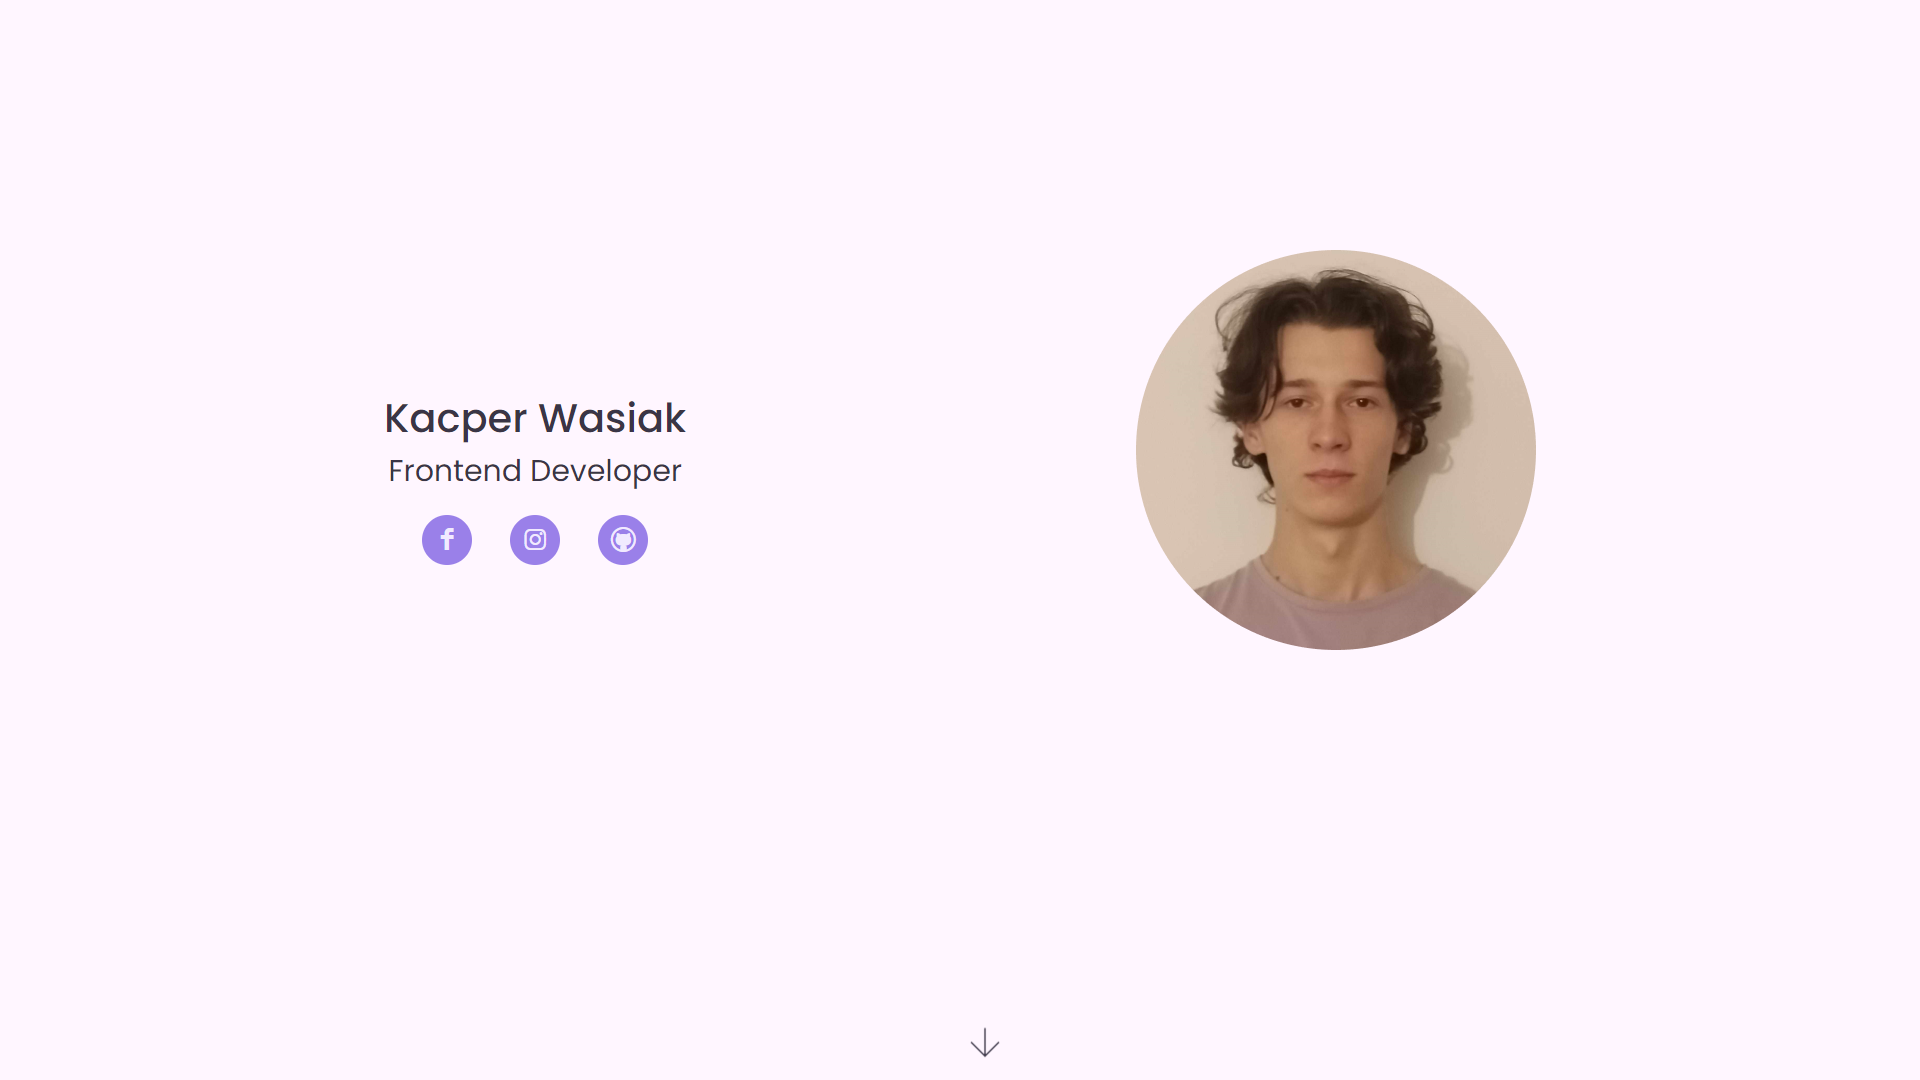
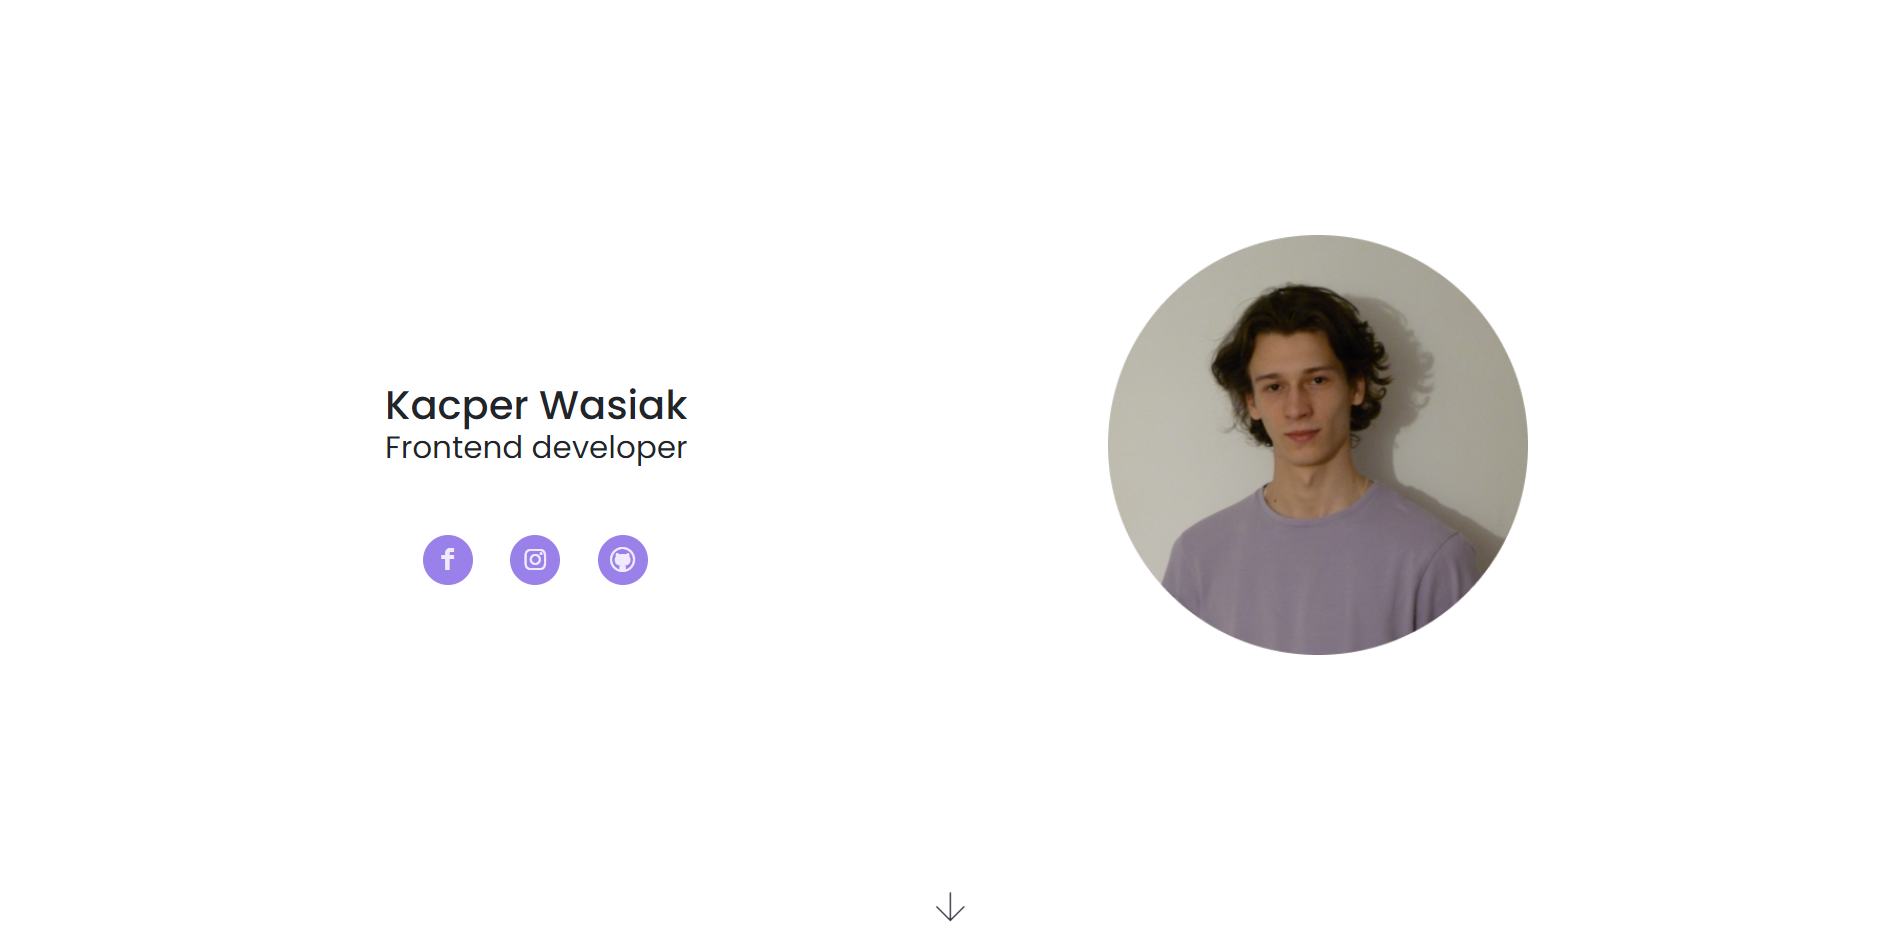
Most of JS was removed, contact section added

diff --git a/style.css b/style.css
@@ -17,9 +17,9 @@
 }
 
 body{
-    background-color: var(--light);
+    background-color: var(--purple);
     color: var(--darkFont);
-    scroll-behavior: smooth;
+    transition: 500ms ease;
 }
 
 /* MAIN WEBSITE CONTENT */
@@ -105,7 +105,7 @@ body{
 /* porojects */
 #projects{
     margin: 5%;
-    padding-bottom: 10%;
+    padding: 5% 0% 10% 0%;
 }
 
 #projects h2{
@@ -178,41 +178,68 @@ body{
 }
 
 /* about me */
+#about{
+    color: var(--darkFont);
+}
+
 #about h2{
     text-align: center;
     font-weight: 400;
     margin-bottom: 5%;
     font-size: 3em; 
+    color: var(--lightFont);
 }
 
 #about #wrapper{
-    background-color: var(--lightFont);
-    color: var(--darkFont);
     display: flex;
     flex-direction: row;
-    margin: 0 20% 7% 20%;
-    border-radius: 2em;
+    justify-content: space-between;
+    padding-bottom: 10%;
+    overflow-x: hidden;
+}
+
+#about #wrapper img#image{
+    scale: 1;
+    margin-right: 15%;
 
     transition: 500ms ease;
     opacity: 0;
-    transform: translateY(150px);
+    transform: translateX(150px);
 }
 
-#about #wrapper.active{
+#about #wrapper img#image.active{
+    transform: translateX(0px);
     opacity: 1;
-    transform: translateY(0px);
 }
 
-#about #wrapper img{
-    border-radius: 2em 0 0 2em;
-    margin-right: 10%;
-}
-
-#about #wrapper p{
-    width: 40%;
-    font-size: 2em;
+#about #wrapper p#paragraf{
+    width: 30%;
+    font-size: 2.5em;
     text-align: left;
-    margin-top: 10%;
+    margin: 10% 0% 0% 20%;
+    color: var(--lightFont);
+
+    transition: 500ms ease;
+    opacity: 0;
+    transform: translateX(-150px);
+}
+
+#about #wrapper p#paragraf.active{
+    transform: translateX(0px);
+    opacity: 1;
+}
+
+/* contact */
+#contact{
+    text-align: center;
+}
+
+#contact h2{
+    text-align: center;
+    font-weight: 400;
+    margin-bottom: 5%;
+    font-size: 3em; 
+    color: var(--lightFont);
 }
 
 /* ANIMATION */
@@ -233,6 +260,10 @@ body{
 
 #arrow-down.active{
     display: inline;
+}
+
+#arrow-down.active.light{
+    color: var(--lightFont);
 }
 
 #arrow-down span{
@@ -258,6 +289,10 @@ body{
 
 #arrow-up.active{
     display: inline;
+}
+
+#arrow-up.active.light{
+    color: var(--lightFont);
 }
 
 #arrow-up span{
@@ -296,6 +331,10 @@ body{
         transform: scale(1.05);
     }
 
+    #homePage #right img#avatar.active:hover{
+        transform: scale(1.05);
+    }
+
     .buttons a:hover{
         transform: translateY(-7%);
     }
@@ -310,7 +349,7 @@ body{
         flex-direction: column-reverse;
         text-align: center;
         justify-content: center;
-        margin: 22% 0%;
+        margin: 10% 0% 15% 0%;
     }
 
     #homePage #right img#avatar{
@@ -356,9 +395,39 @@ body{
         flex-direction: row;
         justify-content: space-evenly;
         width: 100%;
+        margin-top: 5%;
     
         transition: 300ms ease;
         opacity: 0;
         transform: translateY(150px);
+    }
+
+    /* projects */
+    .project{
+        background-color: var(--lightFont);
+        width: 28%;
+        text-align: left;
+        text-wrap: wrap;
+        border-radius: 20px;   
+        padding: 2%; 
+        display: flex;
+        flex-direction: column;
+        margin-bottom: 5%;
+    
+        transition: 500ms ease;
+        opacity: 0;
+        transform: translateY(150px);
+    }
+
+    .project img{
+        width: 100%;
+        height: auto;
+        scale: 0.97;
+    }
+
+    .buttons{
+        width: 100%;
+        display: flex;
+        flex-direction: row;
     }
 }

diff --git a/index.html b/index.html
@@ -26,7 +26,7 @@
 
     <title>Kacper Wasiak - Portfolio programisty</title>
 </head>
-<body onscroll="showProject()">
+<body>
     <section id="container" class="container-fluid">
 
         <article id="homePage">
@@ -60,8 +60,8 @@
         <article id="projects">
             <h2>Projekty</h2>
 
-            <div id="projectWrapper">
-                <div id="portfolio" class="project">
+            <div id="projectWrapper" class="row">
+                <div id="portfolio" class="project col-xl-3">
 
                     <img id="avatar" src="materials/Portfolio.png" alt="Strona Portfolio">
 
@@ -75,7 +75,7 @@
                     </div>
                 </div>
 
-                <div id="weather" class="project">
+                <div id="weather" class="project col-xl-3">
                     
                     <img src="materials/weather.png" alt="Strona Weather">
 
@@ -89,7 +89,7 @@
                     </div>
                 </div>
 
-                <div id="todolist" class="project">
+                <div id="todolist" class="project col-xl-3">
 
                     <img src="materials/todolist.png" alt="Strona To do list">
 
@@ -108,12 +108,21 @@
         <article id="about">
             <h2>O mnie</h2>
             <div id="wrapper">
-                <img src="materials/Kacper.png" alt="Kacper Wasiak">
-                <p>Nazywam się Kacper mam 19 lat. Jestem uczniem 5 klasy technikum informatycznego. Programowaniem zajmuję się od drugiej połowy 2022 roku. 
-                    Interesuję się piłką siatkową w którą gram od 2021 roku oraz grą na gitarze. 
-                    <br><br>
-                    Moją naukę programowania rozpocząłem od nauki HTML i CSS, następnie opanowałem framework Bootstrap i język JavaScript. Teraz zaczynam naukę Reacta oraz GIT-a.</p>
+                <p id="paragraf">Mam na imię Kacper jestem uczniem V klasy technikum informatycznego.  Tworzeniem stron internetowych zajmuję się od drugiej połowy 2022 roku. Poza programowaniem lubię grać na gitarze i uprawiać sport.</p>
+
+                <img id="image" src="materials/AboutMeSticker.png" alt="Kacper Wasiak" >
             </div>
+        </article>
+
+        <article id="contact">
+            <h2>Kontakt</h2>
+
+            <p id="p1">Jeśli chcesz żebym stworzył dla ciebie stronę internetową
+                zapraszam do kontaktu pod adresem:</p>
+            <p id="p2">wasiak.kacper11@gmail.com</p>
+
+            <button>Skopiuj e-mail</button>
+            
         </article>
 
         <div id="navigation">

diff --git a/main.js b/main.js
@@ -1,59 +1,3 @@
-/* NAVIGATION */
-const arrowUp = document.getElementById("arrow-up");
-const arrowDown = document.getElementById("arrow-down");
-
-window.addEventListener('scroll', ()=>{
-    let value = window.scrollY;
-
-    if(value > 500){
-        arrowUp.classList.add("active");
-    }
-    else{
-        arrowUp.classList.remove("active");
-    }
-
-    if(value > 1800){
-        arrowDown.classList.remove("active");
-    }
-    else{
-        arrowDown.classList.add("active");
-    }
-});
-
-arrowDown.addEventListener('click', ()=>{
-    let value = window.scrollY;
-
-    if(value >= 0 && value < 980){
-            window.scrollTo({
-                top: 980,
-                behavior: "smooth"
-            })
-        }
-    else if(value >= 980){
-        window.scrollTo({
-            top: 2250,
-            behavior: "smooth"
-        })
-    }
-});
-
-arrowUp.addEventListener('click', ()=>{
-    let value = window.scrollY;
-
-    if(value <= 980 && value < 1400){
-        window.scrollTo({
-            top: 0,
-            behavior: "smooth"
-        })
-    }
-    else if(value <= 2250){
-        window.scrollTo({
-            top: 980,
-            behavior: "smooth"
-        })
-    }
-});
-
 /* LOADING */
 function sleep(ms){
     return new Promise((resolve) => setTimeout(resolve, ms));
@@ -94,25 +38,29 @@ const writeLower = async ()=>{
 }
 writeLower()
 
-/* PARALAX ANIMATIONS */
- const portfolioTile = document.getElementById("portfolio");
- const weatherTile = document.getElementById("weather");
- const todolistTile = document.getElementById("todolist");
- const aboutMe = document.getElementById("wrapper");
+/* PARALAX EVENTS */
 
-function showProject(){
+/* NAVIGATION */
+const arrowUp = document.getElementById("arrow-up");
+const arrowDown = document.getElementById("arrow-down");
+
+const home = document.getElementById("homePage");
+const project = document.getElementById("projects").offsetTop;
+const contact = document.getElementById("contact");
+
+window.addEventListener('scroll', ()=>{
     let value = window.scrollY;
 
-    if(value >= 980){
-        portfolioTile.classList.add("active");
-        weatherTile.classList.add("active");
-        todolistTile.classList.add("active");
+    if(project){
+        arrowUp.classList.add("active");
     }
+    else if(home){
+        arrowUp.classList.remove("active");
+    }
+});
+/* scrolling to each section */
 
-    if(value >= 1900){
-        aboutMe.classList.add("active");
-    }
- }
+
 
 
 
